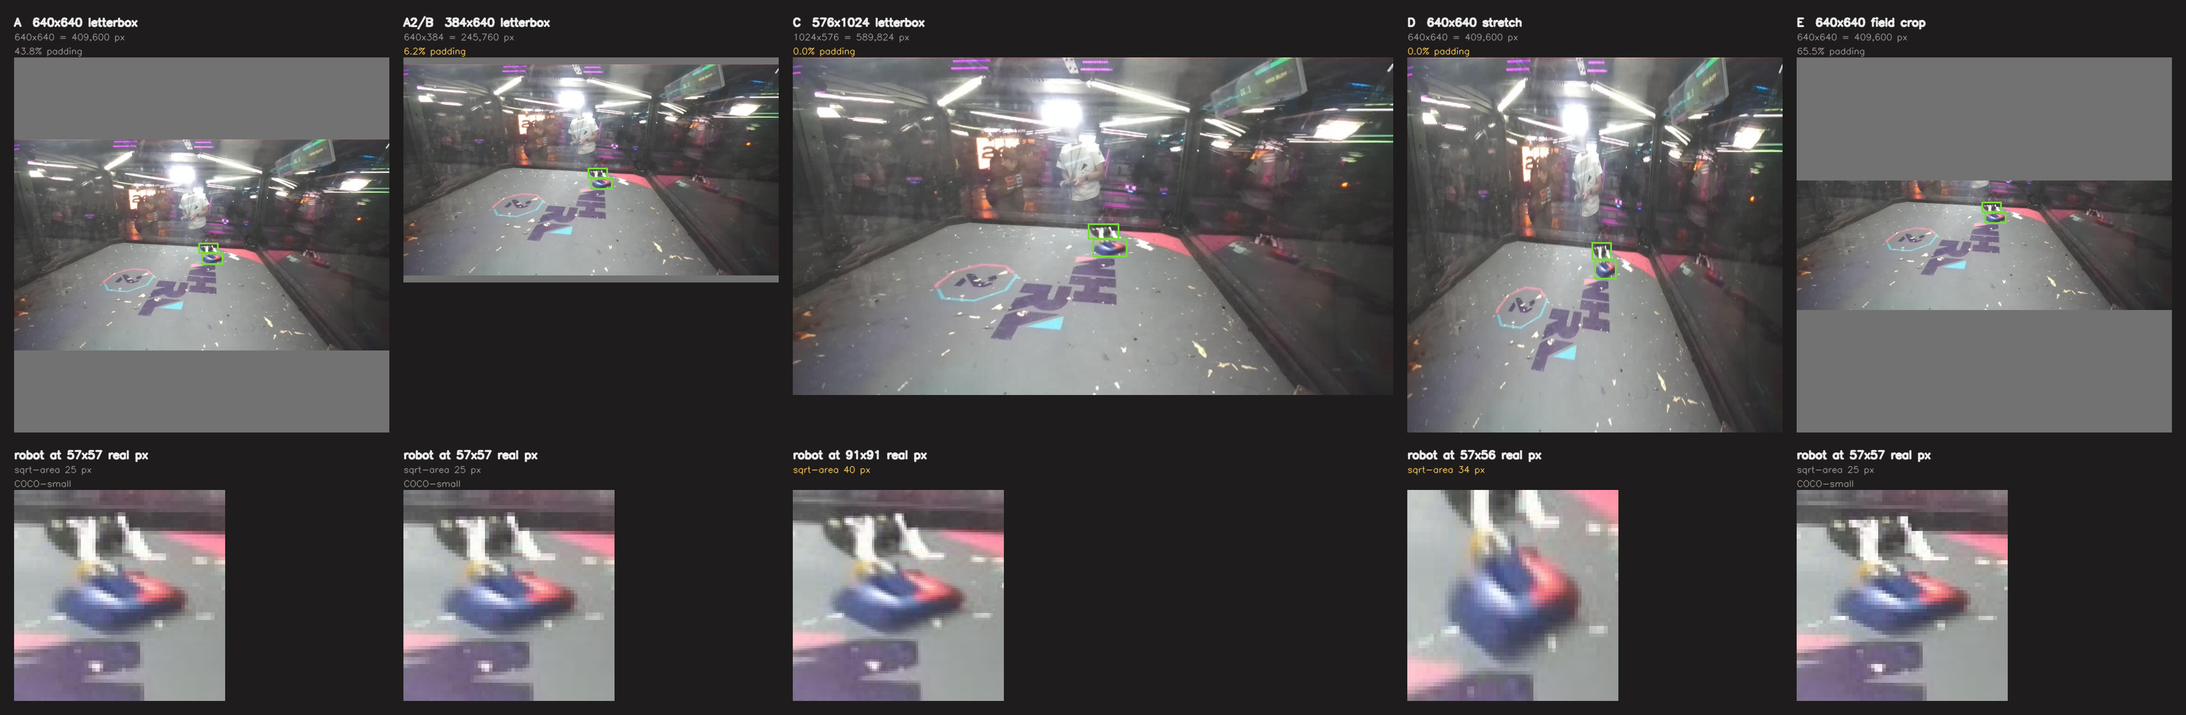
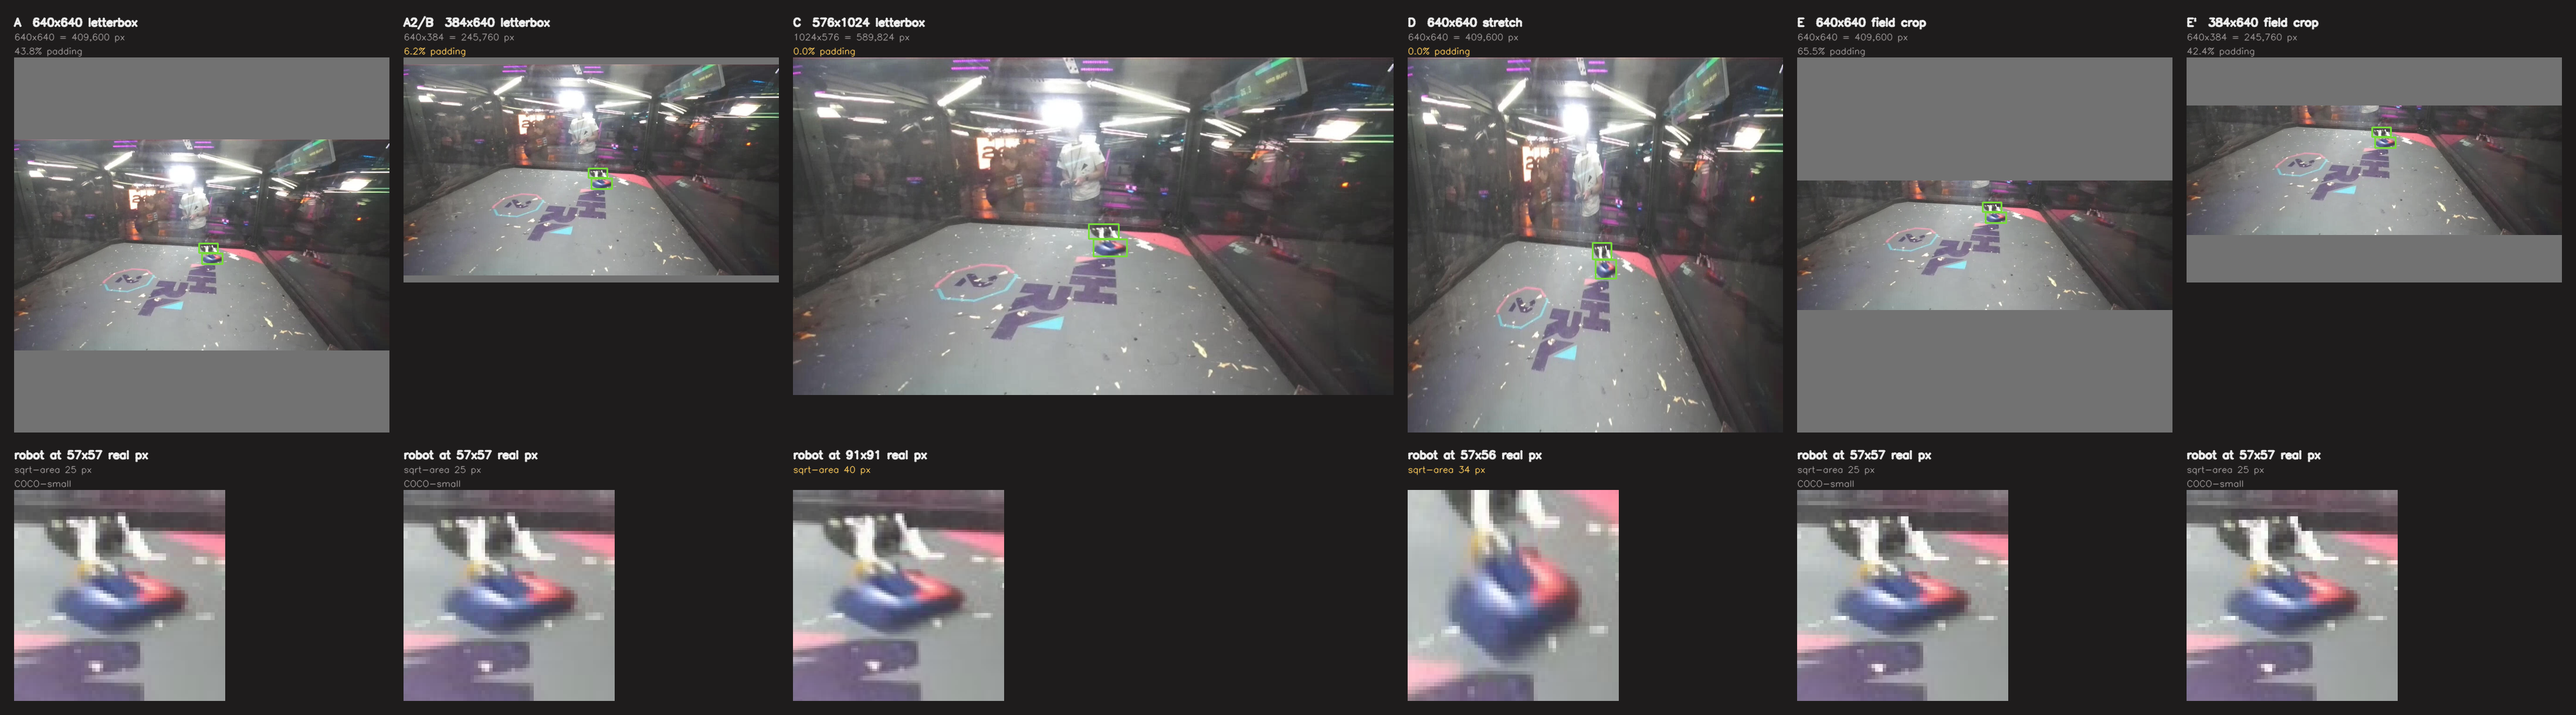
Price the field crop against real engine inputs, not just a square one
Ben asked why arm E was measured in a 640x640 letterbox rather than 384x640 or
576x1024. Fair question: the padding argument for cutting it leaned on the square
tensor. The rectangular version does not rescue the arm, and checking it produced
a cleaner reason than the one it replaces.

Letterbox scale is set by whichever axis binds first, and the field box spans
nearly the full frame width on both corpora, so cropping removes rows that the
width-bound scale was going to apply anyway. Median over 250 train and 688 eval
frames at margin 0.20:

  tensor     train no-crop / crop      eval no-crop / crop
  640x640    1.00x 43.8% / 1.00x 44.7%  1.00x 43.8% / 1.00x 58.4%
  384x640    1.00x  6.2% / 1.00x  7.8%  1.00x  6.2% / 1.00x 30.7%
  576x1024   1.60x  0.0% / 1.60x  4.4%  1.60x  0.0% / 1.60x 26.1%
  320x1024   0.89x 44.4% / 0.91x 43.6%  0.89x 44.4% / 1.25x 24.8%

The crop buys zero zoom at every 16:9-or-squarer tensor and pays padding for it.
384x640 cropped is the same 1.00x as 384x640 uncropped with padding up from 6.2%
to 30.7% on eval.

The one shape where cropping helps is far wider than the frame, and that is where
the plan's domain-gap worry finally appears: 320x1024 gives eval 1.25x but
training 0.91x, because the crops differ in aspect between the corpora (median
2.41 eval, 1.81 train). A tensor tuned to the deployment camera would train the
detector at a scale the corpus never delivers.

The gate script grows a --tensors table so this is reproducible, and the figure
[…]

diff --git a/training/deeplab/field_fraction_gate.py b/training/deeplab/field_fraction_gate.py
@@ -16,6 +16,13 @@ needs before it stops clipping annotated robots, and how much zoom survives that
 crop tight enough to zoom is a crop that cuts robots in half; a crop loose enough to keep
 them is a crop that covers the frame.
 
+With `--tensors`, it reports what the crop is worth once it is letterboxed into a real
+engine input, against not cropping at all. This is the version that decides the arm, because
+a letterbox scale is set by whichever axis binds first, and the field box spans nearly the
+full frame width on both corpora. Cropping removes rows the width-bound scale was going to
+apply anyway, so it buys no zoom at any tensor shape that is 16:9 or squarer -- it only
+spends the freed rows on padding.
+
     python training/deeplab/field_fraction_gate.py \
         --model data/models/field_deeplabv3p_r50_2026-07-29.pth \
         --train-images training/data/nhrl_robots_bbox_2class/train/images \
@@ -145,6 +152,67 @@ def margin_retention(
     return out
 
 
+def crop_dims(
+    box: tuple[float, float, float, float], margin: float, src_w: float, src_h: float
+) -> tuple[float, float]:
+    """Pixel size of the field box grown by `margin` per side and clamped to the frame."""
+    x0, y0, x1, y1 = box
+    mx, my = (x1 - x0) * margin, (y1 - y0) * margin
+    cx0, cy0 = max(x0 - mx, 0.0), max(y0 - my, 0.0)
+    cx1, cy1 = min(x1 + mx, 1.0), min(y1 + my, 1.0)
+    return (cx1 - cx0) * src_w, (cy1 - cy0) * src_h
+
+
+def tensor_tradeoff(
+    rows: list[dict[str, float]],
+    tensors: list[tuple[int, int]],
+    margin: float,
+    src_w: float = 1280.0,
+    src_h: float = 720.0,
+) -> list[dict[str, object]]:
+    """Zoom and padding for each engine input shape, cropped and uncropped.
+
+    Zoom is the letterbox scale relative to arm A's 640x640, which is what sets how many
+    pixels a robot lands on. The source resolution cancels out of that ratio for a 16:9
+    frame, so 1280x720 stands in for both corpora.
+    """
+    base = min(640.0 / src_h, 640.0 / src_w)
+    boxes = [r["field_box"] for r in rows if r.get("field_box")]
+    out: list[dict[str, object]] = []
+    for th, tw in tensors:
+        plain = min(th / src_h, tw / src_w)
+        out.append(
+            {
+                "tensor": f"{th}x{tw}",
+                "pixels": th * tw,
+                "cropped": False,
+                "zoom": plain / base,
+                "padding": 1.0 - (round(src_w * plain) * round(src_h * plain)) / (tw * th),
+                "aspect": None,
+            }
+        )
+        zooms, pads, aspects = [], [], []
+        for box in boxes:
+            cw, ch = crop_dims(box, margin, src_w, src_h)  # type: ignore[arg-type]
+            scale = min(th / ch, tw / cw)
+            zooms.append(scale / base)
+            pads.append(1.0 - (round(cw * scale) * round(ch * scale)) / (tw * th))
+            aspects.append(cw / ch)
+        if not zooms:
+            continue
+        out.append(
+            {
+                "tensor": f"{th}x{tw}",
+                "pixels": th * tw,
+                "cropped": True,
+                "zoom": float(np.median(zooms)),
+                "padding": float(np.median(pads)),
+                "aspect": float(np.median(aspects)),
+            }
+        )
+    return out
+
+
 def sample_images(root: Path, n: int, rng: random.Random) -> list[Path]:
     files = [p for p in sorted(root.rglob("*")) if p.suffix.lower() in IMAGE_SUFFIXES]
     if len(files) <= n:
@@ -202,6 +270,37 @@ def run_corpus(
     return summarize(name, rows), rows
 
 
+def report_crop_tradeoffs(
+    per_frame: dict[str, list[dict[str, float]]],
+    margins: tuple[float, ...],
+    tensor_specs: list[str],
+) -> None:
+    """Print the two tables that decide arm E: margin vs. labels, and crop vs. tensor shape."""
+    tensors = [(int(t.split("x")[0]), int(t.split("x")[1])) for t in tensor_specs]
+    corpora = (
+        ("train", per_frame["train"]),
+        ("eval", [r for k, v in per_frame.items() if k != "train" for r in v]),
+    )
+    for name, rows in corpora:
+        print(f"\n{name}: crop margin vs. labels kept and zoom remaining")
+        print(f"  {'margin':>7} {'kept':>7} {'whole':>7} {'zoom':>7}")
+        for r in margin_retention(rows, margins):
+            print(
+                f"  {r['margin']:>7.2f} {r['kept'] * 100:>6.1f}% {r['whole'] * 100:>6.1f}% "
+                f"{r['zoom']:>6.2f}x"
+            )
+
+    for name, rows in corpora:
+        print(f"\n{name}: what the crop is worth once letterboxed into a real engine input")
+        print(f"  {'tensor':>9} {'px':>9} {'zoom vs A':>10} {'padding':>9}  source")
+        for r in tensor_tradeoff(rows, tensors, margin=0.20):
+            label = "field crop" if r["cropped"] else "no crop"
+            print(
+                f"  {r['tensor']:>9} {r['pixels']:>9,} {r['zoom']:>9.2f}x "
+                f"{r['padding'] * 100:>8.1f}%  {label}"
+            )
+
+
 def main() -> None:
     parser = argparse.ArgumentParser(description=__doc__)
     parser.add_argument("--model", type=Path, required=True)
@@ -222,6 +321,13 @@ def main() -> None:
         nargs="+",
         default=[0.0, 0.1, 0.2, 0.35, 0.5],
         help="crop margins to evaluate, as a fraction of the field box per side",
+    )
+    parser.add_argument(
+        "--tensors",
+        nargs="+",
+        default=["640x640", "384x640", "576x1024", "320x1024"],
+        metavar="HxW",
+        help="engine input shapes to price the crop against, as HxW",
     )
     parser.add_argument("--output", type=Path, default=None, help="write JSON here")
     args = parser.parse_args()
@@ -270,17 +376,7 @@ def main() -> None:
         )
 
     if args.labels:
-        for name, rows in (
-            ("train", per_frame["train"]),
-            ("eval", [r for k, v in per_frame.items() if k != "train" for r in v]),
-        ):
-            print(f"\n{name}: crop margin vs. labels kept and zoom remaining")
-            print(f"  {'margin':>7} {'kept':>7} {'whole':>7} {'zoom':>7}")
-            for r in margin_retention(rows, tuple(args.margins)):
-                print(
-                    f"  {r['margin']:>7.2f} {r['kept'] * 100:>6.1f}% {r['whole'] * 100:>6.1f}% "
-                    f"{r['zoom']:>6.2f}x"
-                )
+        report_crop_tradeoffs(per_frame, tuple(args.margins), args.tensors)
 
     if args.output:
         args.output.write_text(json.dumps({"summary": results, "frames": per_frame}, indent=2))

diff --git a/playground/input_geometry_mosaic.py b/playground/input_geometry_mosaic.py
@@ -40,6 +40,7 @@ GEOMETRIES = (
     ("C  576x1024 letterbox", 576, 1024, "letterbox"),
     ("D  640x640 stretch", 640, 640, "stretch"),
     ("E  640x640 field crop", 640, 640, "crop"),
+    ("E'  384x640 field crop", 384, 640, "crop"),
 )
 # Field box measured for the default figure frame by the DeepLab model the arm would use
 # (`field_deeplabv3p_r50_2026-07-29`), as normalized (x0, y0, x1, y1). Override with

diff --git a/docs/experiments/perception_performance/input_geometry_2026-09-05.md b/docs/experiments/perception_performance/input_geometry_2026-09-05.md
@@ -28,6 +28,7 @@ tabulated. On this eval frame:
 | C `576x1024` letterbox | 589,824 px | 0.0% | 40 px |
 | D `640x640` stretch | 409,600 px | 0.0% | 34 px |
 | E `640x640` field crop | 409,600 px | 65.5% | 25 px |
+| E′ `384x640` field crop | 245,760 px | 42.4% | 25 px |
 
 Two things fall out of the picture that the plan's table did not predict.
 
@@ -39,10 +40,11 @@ geometries address, and D addresses it without spending anything. The cost is a
 preprocessing fork, and an unverified interaction with the `degrees=45.0` rotation
 augmentation.
 
-**The field crop makes the padding worse.** Panel E uses the box the DeepLab model
-actually predicts for that frame, not the label boxes. The field is wide and short, so
-squeezing it into a square tensor pads more than the uncropped frame does and leaves the
-robot at exactly arm A's scale. See "Arm E is cut" below.
+**The field crop only spends its winnings on padding.** Panels E and E′ use the box the
+DeepLab model actually predicts for that frame, not the label boxes. The field is wide and
+short, so the crop pads more than the uncropped frame does and leaves the robot at exactly
+arm A's scale. Putting it in a rectangular tensor instead of a square one does not rescue
+it: E′ gets A2's robot scale with arm A's padding. See "Arm E is cut" below.
 
 ## The trap that would have invalidated A2, B and C
 
@@ -113,14 +115,36 @@ slicing robots in half, and how much zoom survives that margin:
 | 0.35 | 100.0% | 99.9% | 1.00x | 100.0% | 96.8% | 1.12x |
 
 At margin 0 the crop zooms, but clips 39% of training robots. At the margin that keeps
-them whole, the crop covers the median training frame outright and zooms it 1.03x. Arm E
-is a no-op on the corpus it would be trained on. It narrows the 1.5x train/deploy
-object-scale gap only to 1.29x, and the figure above shows the square tensor giving that
-back as extra padding.
+them whole, the crop already covers the median training frame. Those zoom numbers are an
+upper bound: they assume the crop fills the tensor, which no fixed engine input does.
 
-Against that: a DeepLab pass over 32,487 images in dataset prep, a crop branch in both the
-C++ and Python preprocessors, and a new runtime dependency of the detector on the field
-estimate. Arm C buys 1.6x more pixels per robot with a drop-in engine swap. E is cut.
+Pricing the crop against real engine inputs kills the arm outright. Letterbox scale is set
+by whichever axis binds first, and the field box spans nearly the full frame width on both
+corpora, so the crop removes rows that the width-bound scale was going to apply anyway.
+Median over the same frames, at margin 0.20:
+
+| tensor | px | train zoom / pad, no crop | train zoom / pad, cropped | eval zoom / pad, no crop | eval zoom / pad, cropped |
+|---|---:|---:|---:|---:|---:|
+| 640x640 | 409,600 | 1.00x / 43.8% | 1.00x / 44.7% | 1.00x / 43.8% | 1.00x / 58.4% |
+| 384x640 | 245,760 | 1.00x / 6.2% | 1.00x / 7.8% | 1.00x / 6.2% | 1.00x / 30.7% |
+| 576x1024 | 589,824 | 1.60x / 0.0% | 1.60x / 4.4% | 1.60x / 0.0% | 1.60x / 26.1% |
+| 320x1024 | 327,680 | 0.89x / 44.4% | 0.91x / 43.6% | 0.89x / 44.4% | 1.25x / 24.8% |
+
+**The crop buys exactly zero zoom at every 16:9-or-squarer tensor, and pays padding for
+it.** A square tensor is not what makes it fail, so a rectangular one does not fix it:
+384x640 cropped is the same 1.00x as 384x640 uncropped, with padding up from 6.2% to 30.7%
+on eval. Panel E′ in the figure is that row.
+
+The only shape where cropping helps is one far wider than the frame, and that is where the
+plan's domain-gap worry finally shows up: at 320x1024 the crop gives eval 1.25x but
+training 0.91x, because the crops have different aspect ratios in the two corpora (median
+2.41 on eval against 1.81 on training). A tensor tuned to the deployment camera's crop
+would train the detector at a scale the training corpus never delivers.
+
+Against all that: a DeepLab pass over 32,487 images in dataset prep, a crop branch in both
+the C++ and Python preprocessors, and a new runtime dependency of the detector on the field
+estimate. Arm C buys 1.6x more pixels per robot on both corpora with a drop-in engine swap.
+E is cut.
 
 `training/deeplab/build_field_crop_dataset.py` is kept so the arm is one command away if
 that call is wrong: `masks` caches a field box per frame, `crop` rewrites images and
